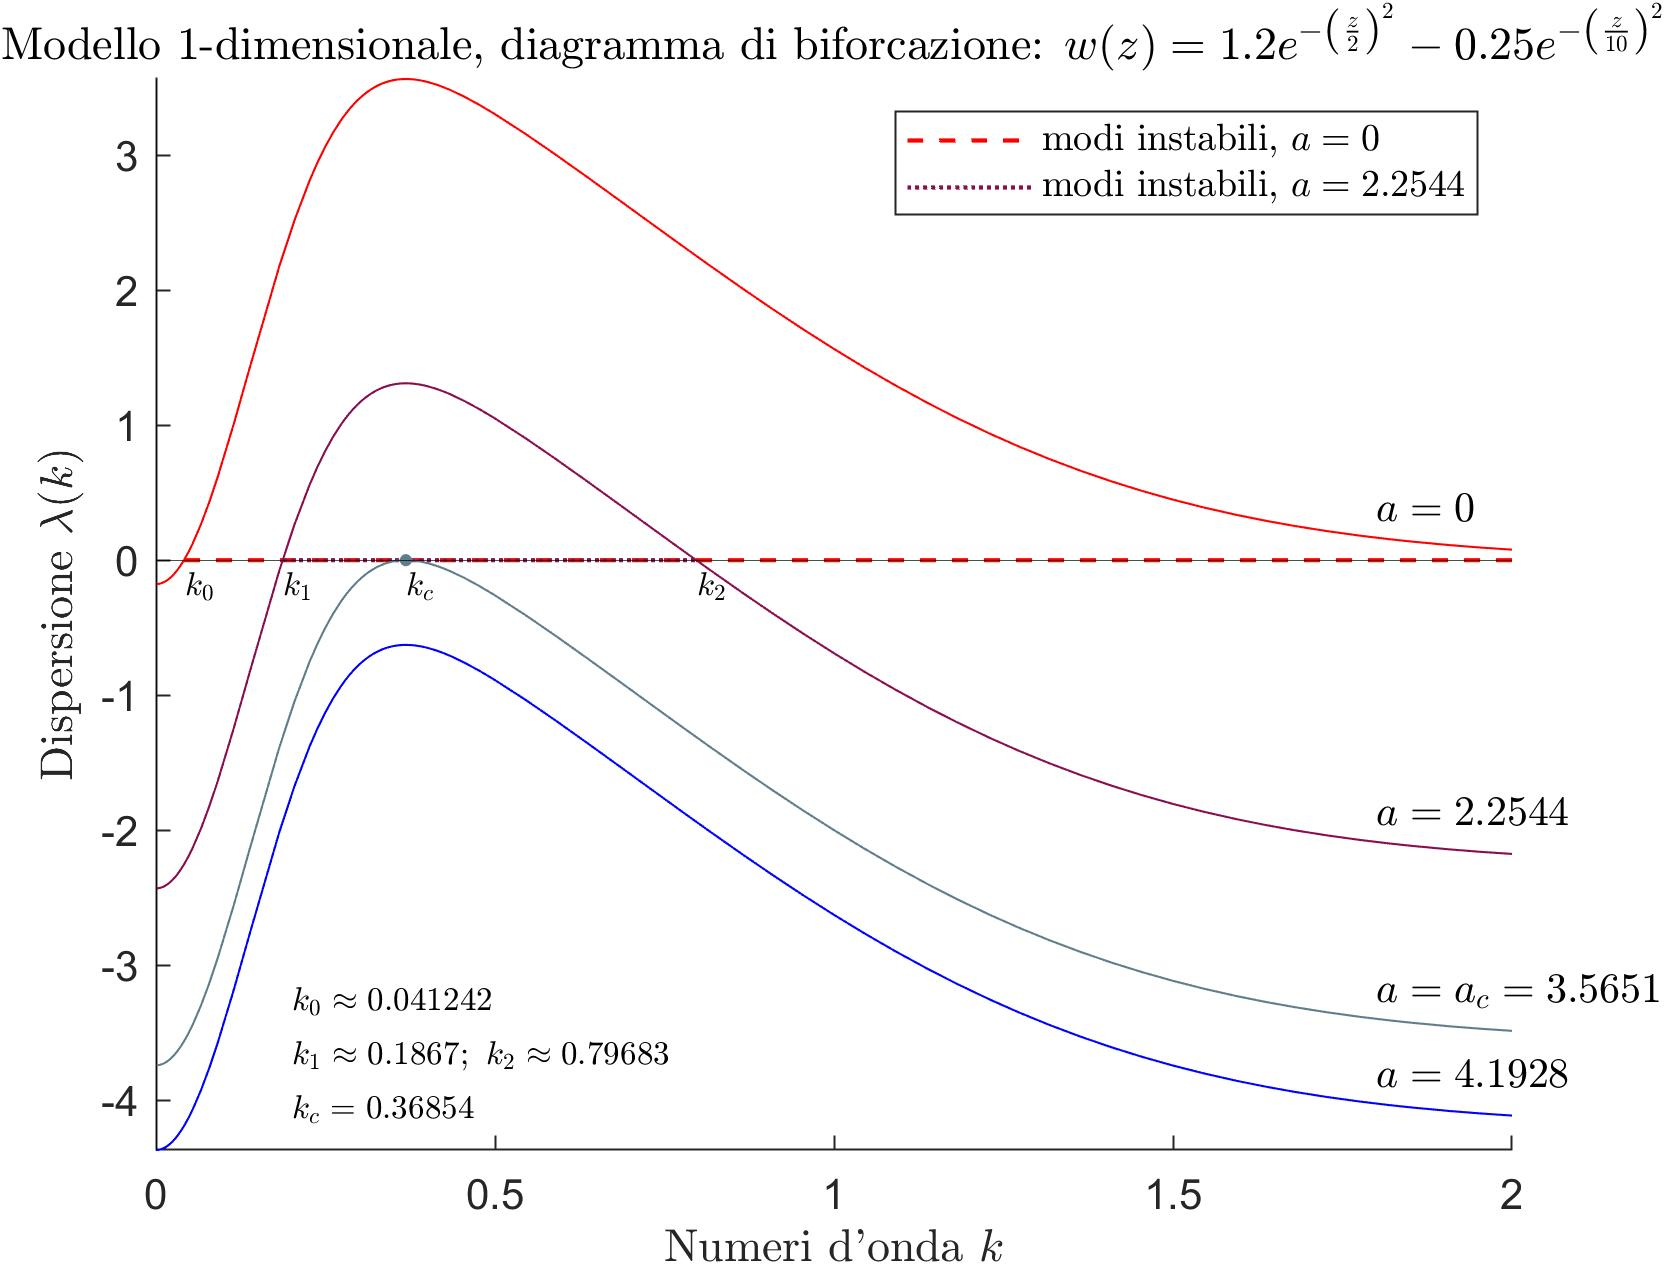
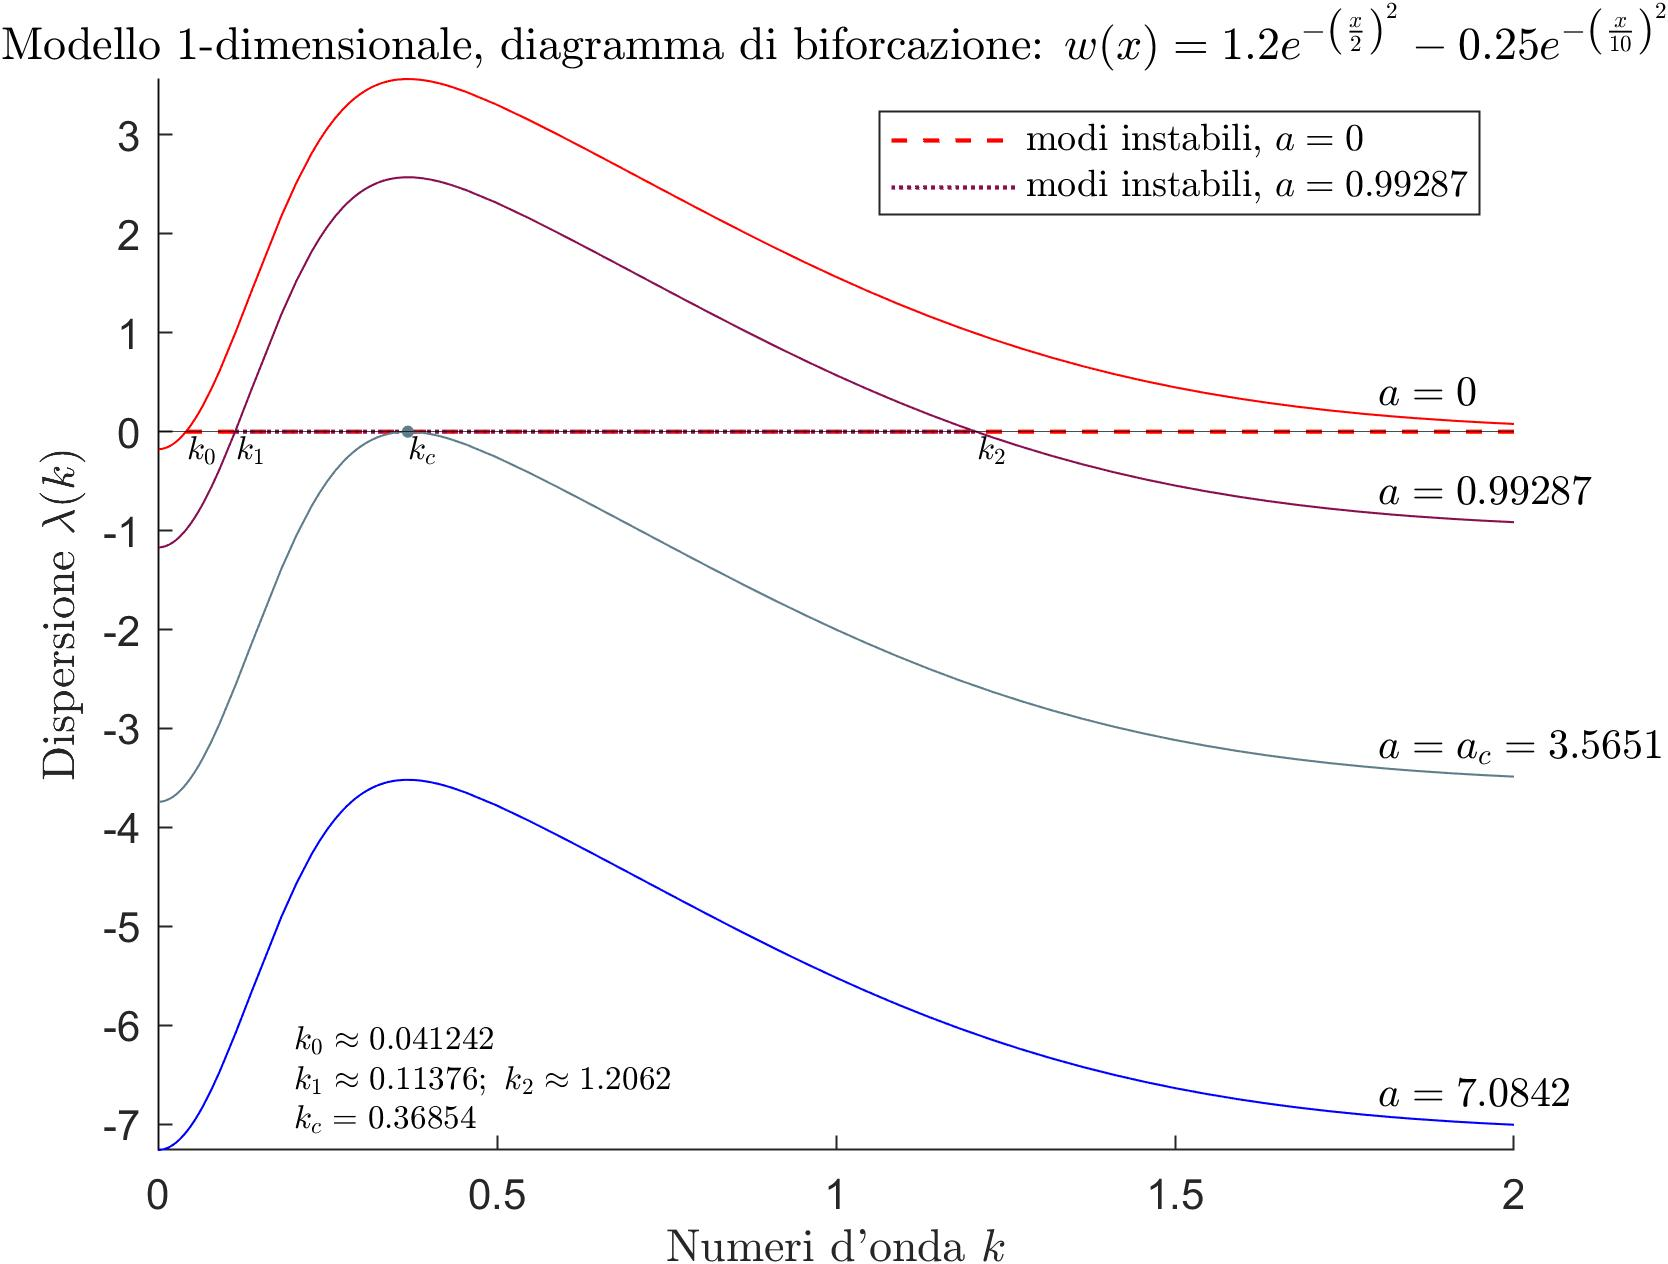
Add files via upload

diff --git a/1.simple_1d_model/makeBifurcation1.m b/1.simple_1d_model/makeBifurcation1.m
@@ -11,7 +11,7 @@ a2=(10-a_c)*rand()+a_c;
 
 %Elaborazione del diagramma di biforcazione.
 hold on
-title(strcat('Modello 1-dimensionale, diagramma di biforcazione: $w(z)=',num2str(b1),'e^{- \left(\frac{z}{',num2str(d1),'}\right)^2} - ',num2str(b2),'e^{- \left(\frac{z}{',num2str(d2),'}\right)^2}$'),'Interpreter','latex');
+title(strcat('Modello 1-dimensionale, diagramma di biforcazione: $w(x)=',num2str(b1),'e^{- \left(\frac{x}{',num2str(d1),'}\right)^2} - ',num2str(b2),'e^{- \left(\frac{x}{',num2str(d2),'}\right)^2}$'),'Interpreter','latex');
 xlabel("Numeri d'onda $k$",'Interpreter','latex');
 ylabel("Dispersione $\lambda(k)$",'Interpreter','latex')
 z=linspace(0,ext,1000);
@@ -36,7 +36,7 @@ plot([k1,k2],[0,0],'Color','#880e4f','Linestyle',':','Linewidth',1);
 % caso a=a_c
 fplot(@(k) bif_fun(k,a_c),'Color','#607d8b');
 text(ext-0.2,bif_fun(ext-0.2,a_c)+0.2,strcat('$a=a_c=',num2str(a_c),'$'),'Interpreter','latex');
-plot([k_c,0],'Color','#607d8b','Marker','.','MarkerSize',10);
+plot(k_c,0,'Color','#607d8b','Marker','.','MarkerSize',10);
 text(k_c,-0.2,'$k_c$','Interpreter','latex','FontSize',8);
 % caso a>a_c
 fplot(@(k) bif_fun(k,a2),'Color','blue');
